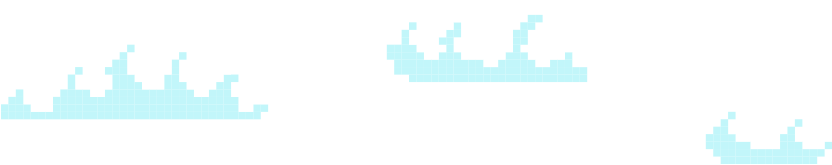
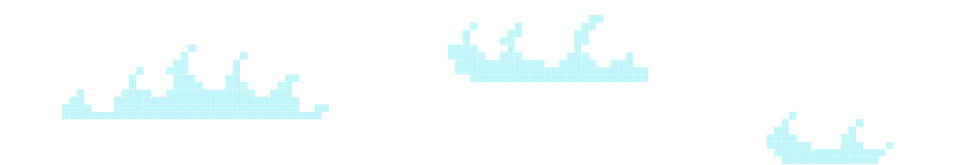
10 mmf 구름 이미지 변경

diff --git a/src/0A0010/index.css b/src/0A0010/index.css
@@ -77,14 +77,6 @@ img {
     z-index: 3;
 }
 
-#cloud1 {
-    background: url("assets/cast_special_mmf_4_cloud2.png");
-}
-
-#cloud2 {
-    background: url("assets/cast_special_mmf_4_cloud1.png");
-}
-
 .cloud1 {
     background: url("assets/cast_special_mmf_4_cloud2.png");
     background-size: 416px 84px;
@@ -97,7 +89,7 @@ img {
     transform: translate3d(0, 0, 0);
 }
 .cloud2 {
-    background: url("assets/cast_special_mmf_4_cloud1.png") repeat-x left center;
+    background: url("assets/cast_special_mmf_4_cloud2.png") repeat-x left center;
     background-size: 416px 84px;
     /* width: 832px; */
     /* height: 84px; */
